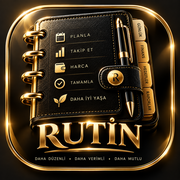
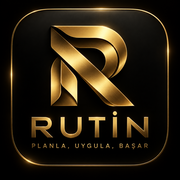
Add files via upload

diff --git a/styles.css b/styles.css
@@ -2125,3 +2125,113 @@ body{min-height:100dvh!important;}
 @media(max-width:390px){.financeDeck43177{gap:8px!important}.financeCard43177{padding:11px 9px;border-radius:19px}.financeCardName43177 b{font-size:13px}.financeCardDebt43177 strong{font-size:15px}.financeCardStats43177 b{font-size:7.7px}}
 @media(max-width:340px){.financeDeck43177{grid-template-columns:1fr!important}.financeCard43177{aspect-ratio:auto;min-height:350px}}
 .statementActions43177{display:grid;grid-template-columns:1fr 1fr;gap:7px}.statementActions43177 button{width:100%}.statementActions43177 .danger43177{grid-column:1/-1;border-color:#5d2929!important;background:#1c0d0d!important;color:#ff9292!important}.statementEdit43177{grid-template-columns:1fr!important}.statementEdit43177>span{display:block}
+
+/* V43.18.1 — OFFICIAL RUTİN BRAND + CLEAN CHAMFERED LOCK SCREEN */
+.rutinLogoImage{
+  width:var(--logoSize,30px)!important;
+  height:var(--logoSize,30px)!important;
+  min-width:var(--logoSize,30px)!important;
+  object-fit:cover!important;
+  border-radius:24%!important;
+  border:1px solid rgba(187,145,70,.48)!important;
+  box-shadow:none!important;
+  display:inline-block!important;
+}
+.brandTitle{gap:7px!important}
+.brandTitle>span:last-child{color:#d8bd7b!important}
+.headerAppLogoV32,.brandStripV31 img{
+  content:url('rutin-logo.png?v=v43.18.1')!important;
+  object-fit:cover!important;
+  border-color:rgba(184,142,67,.42)!important;
+  box-shadow:none!important;
+}
+.profileBadge .rutinLogoImage{vertical-align:middle;margin-right:6px}
+.sheetHead>b{display:flex;align-items:center;gap:7px}
+.sheetHead>b:before{
+  content:"";
+  width:18px;height:18px;flex:none;
+  background:url('rutin-mark.png?v=v43.18.1') center/cover no-repeat;
+  border-radius:5px;border:1px solid rgba(184,142,67,.38);
+}
+
+/* Real functional PIN screen based on selected mockup. */
+.premiumLock.lockV43181{
+  position:fixed!important;inset:0!important;z-index:9999!important;
+  padding:0!important;overflow:auto!important;text-align:left!important;
+  color:#eee!important;background:#030303!important;
+  font-family:system-ui,-apple-system,BlinkMacSystemFont,"Segoe UI",sans-serif!important;
+}
+.lockV43181 .lockAura,.lockV43181 .lockTop,.lockV43181>h1,.lockV43181 .lockSub,.lockV43181 .lockGreeting,.lockV43181 .cleanPinOk,.lockV43181 .lockVersion{display:none!important}
+.lockV43181Shell{
+  min-height:100svh;width:min(100%,480px);margin:0 auto;
+  display:grid;grid-template-columns:minmax(0,1fr) 29%;
+  background:linear-gradient(180deg,#080808 0%,#020202 100%);
+  border-left:1px solid rgba(183,140,66,.16);border-right:1px solid rgba(183,140,66,.16);
+}
+.lockV43181Main{position:relative;min-width:0;padding:calc(env(safe-area-inset-top,0px) + 22px) 14px calc(env(safe-area-inset-bottom,0px) + 18px);display:flex;flex-direction:column;align-items:center}
+.lockV43181Brand{align-self:flex-start;width:76px;height:76px;margin:0 0 3px 3px}
+.lockV43181Brand img{display:block;width:100%;height:100%;object-fit:cover;border-radius:18px;border:1px solid rgba(185,143,70,.28);box-shadow:none}
+.lockProfile43181{
+  width:126px!important;height:126px!important;margin:0 auto 7px!important;padding:0!important;
+  border:1px solid rgba(203,164,91,.72)!important;border-radius:0!important;box-shadow:none!important;
+  background:linear-gradient(145deg,#141414,#060606)!important;overflow:hidden!important;
+  clip-path:polygon(11% 0,89% 0,100% 11%,100% 89%,89% 100%,11% 100%,0 89%,0 11%);
+  display:grid!important;place-items:center!important;
+}
+.lockProfile43181 img{width:100%!important;height:100%!important;object-fit:cover!important;border-radius:0!important;clip-path:inherit}
+.lockAvatarMinimal{width:100%;height:100%;display:grid;place-items:center;position:relative}
+.lockAvatarMinimal i{position:absolute;top:25px;width:42px;height:42px;border-radius:50%;background:linear-gradient(145deg,#d4b06c,#8b672f);box-shadow:none}
+.lockAvatarMinimal b{position:absolute;bottom:22px;width:78px;height:48px;border-radius:42px 42px 9px 9px;background:linear-gradient(145deg,#caa45d,#745225);box-shadow:none}
+.lockProfileName43181{max-width:94%;overflow:hidden;text-overflow:ellipsis;white-space:nowrap;color:#d9c28e;font-size:9px;letter-spacing:1.5px;text-transform:uppercase;margin:1px 0 4px}
+.lockV43181 .cleanPinInstruction{margin:2px 0 8px!important;color:#d8bd7b!important;font-size:11px!important;font-weight:600!important;letter-spacing:1.8px!important;text-align:center!important}
+.lockPinDots43181{display:grid!important;grid-template-columns:repeat(4,34px)!important;gap:10px!important;margin:0 0 12px!important}
+.lockPinDots43181 i{
+  width:34px!important;height:30px!important;border-radius:0!important;
+  border:1px solid rgba(203,164,91,.72)!important;background:#080808!important;box-shadow:none!important;
+  clip-path:polygon(18% 0,82% 0,100% 18%,100% 82%,82% 100%,18% 100%,0 82%,0 18%);
+}
+.lockPinDots43181 i.filled{background:#b68e49!important;border-color:#d8b86e!important;box-shadow:none!important;position:relative}
+.lockPad43181{display:grid!important;grid-template-columns:repeat(3,minmax(58px,78px))!important;gap:8px!important;justify-content:center!important;width:100%!important;position:relative!important;z-index:20!important}
+.lockPad43181 .lockKey43181{
+  width:100%!important;height:70px!important;border-radius:0!important;
+  border:1px solid rgba(190,148,72,.68)!important;background:linear-gradient(145deg,#151515,#090909)!important;
+  color:#dbc18b!important;font-size:24px!important;font-weight:500!important;padding:0!important;box-shadow:none!important;
+  clip-path:polygon(12% 0,88% 0,100% 12%,100% 88%,88% 100%,12% 100%,0 88%,0 12%);
+  touch-action:manipulation!important;-webkit-tap-highlight-color:transparent!important;
+}
+.lockPad43181 .lockKey43181:active{background:#1f1a11!important;color:#f0d69c!important;transform:scale(.96)!important}
+.lockPad43181 .lockKeyUtility43181{font-size:26px!important;color:#bfa267!important}
+.lockForgot43181{margin:10px auto 0!important;border:0!important;background:transparent!important;color:#8e8270!important;font-size:7px!important;letter-spacing:1px!important}
+.lockHelp43181{margin:10px auto 0!important;color:#8f836e!important;font-size:7px!important;letter-spacing:1px!important}
+.lockV43181Tagline{margin-top:auto;padding-top:14px;color:#9f8b62;font-size:7px;letter-spacing:2.2px;text-align:center}
+.lockV43181Quote{
+  position:relative;min-width:0;border-left:1px solid rgba(182,140,66,.42);
+  background:linear-gradient(180deg,#060606 0%,#0d0b08 50%,#030303 100%);
+  display:grid;grid-template-rows:auto 1fr auto;overflow:hidden;padding:calc(env(safe-area-inset-top,0px) + 78px) 9px calc(env(safe-area-inset-bottom,0px) + 26px);
+}
+.lockQuoteTop43181{position:relative;z-index:2;color:#d8bd7b;font-family:Georgia,"Times New Roman",serif;font-size:20px;line-height:1.16;text-align:center;font-weight:400}
+.lockQuoteTop43181:after{content:"";display:block;width:34px;height:1px;background:#a98546;margin:13px auto 0}
+.lockMountain43181{min-height:290px;margin:24px -9px 10px;background:linear-gradient(180deg,transparent 0%,rgba(0,0,0,.12) 75%,#030303 100%),url('lock-mountain.jpg?v=v43.18.1') 50% 30%/cover no-repeat;filter:saturate(.72) brightness(.75);opacity:.9}
+.lockQuoteBottom43181{position:relative;z-index:2;color:#bca675;font-size:7px;letter-spacing:2.4px;line-height:2;text-align:center}
+.lockQuoteBottom43181:after{content:"";display:block;width:32px;height:1px;background:#91733c;margin:8px auto 0}
+
+@media(max-width:390px){
+ .lockV43181Shell{grid-template-columns:minmax(0,1fr) 27%}
+ .lockV43181Main{padding-left:10px;padding-right:10px}
+ .lockV43181Brand{width:66px;height:66px}
+ .lockProfile43181{width:112px!important;height:112px!important}
+ .lockPad43181{grid-template-columns:repeat(3,minmax(54px,72px))!important;gap:7px!important}
+ .lockPad43181 .lockKey43181{height:62px!important;font-size:22px!important}
+ .lockQuoteTop43181{font-size:17px}
+}
+@media(max-height:720px){
+ .lockV43181Main{padding-top:12px;padding-bottom:10px}
+ .lockV43181Brand{width:54px;height:54px}
+ .lockProfile43181{width:88px!important;height:88px!important;margin-bottom:4px!important}
+ .lockAvatarMinimal i{top:17px;width:30px;height:30px}.lockAvatarMinimal b{bottom:14px;width:56px;height:34px}
+ .lockV43181 .cleanPinInstruction{font-size:9px!important;margin-bottom:5px!important}
+ .lockPinDots43181{margin-bottom:7px!important}.lockPinDots43181 i{width:28px!important;height:25px!important}
+ .lockPad43181{grid-template-columns:repeat(3,58px)!important;gap:5px!important}
+ .lockPad43181 .lockKey43181{height:46px!important;font-size:19px!important}
+ .lockV43181Tagline{padding-top:7px}.lockV43181Quote{padding-top:58px}.lockMountain43181{min-height:210px;margin-top:12px}
+}

diff --git a/app.js b/app.js
@@ -131,9 +131,7 @@ function workSummary(items=monthItems(state.work)){
 }
 
 function rutinLogo(size=34){
-  return `<span class="rutinLogo" style="--logoSize:${size}px" aria-label="RUTİN">
-    <span class="rLogoR">R</span><span class="rLogoCheck">✓</span>
-  </span>`;
+  return `<img class="rutinLogoImage" src="rutin-mark.png?v=v43.18.1" style="--logoSize:${size}px" width="${size}" height="${size}" alt="RUTİN">`;
 }
 
 function header(title='RUTİN',back=false){
@@ -499,7 +497,7 @@ function initCleanPinMode(){
 function cleanPinInstruction(){
   if(cleanPin.mode==='create') return 'YENİ 4 HANELİ PINİNİ GİR';
   if(cleanPin.mode==='confirm') return 'PINİ TEKRAR GİR';
-  return '4 HANELİ PINİNİ GİR';
+  return 'ŞİFRENİZİ GİRİN';
 }
 
 function cleanPinScreen(){
@@ -507,42 +505,43 @@ function cleanPinScreen(){
 
   const name = state.profile?.name || 'RUTİN';
   const photo = state.profile?.photo || '';
+  const profileVisual = photo
+    ? `<img src="${photo}" alt="${esc(name)}">`
+    : `<div class="lockAvatarMinimal" aria-hidden="true"><i></i><b></b></div>`;
 
-  return `<div class="premiumLock cleanPinScreen">
-    <div class="lockAura"></div>
+  return `<div class="premiumLock cleanPinScreen lockV43181">
+    <div class="lockV43181Shell">
+      <main class="lockV43181Main">
+        <div class="lockV43181Brand"><img src="rutin-logo.png?v=v43.18.1" alt="RUTİN"></div>
 
-    <div class="lockTop">
-      <div class="lockSideQuote">DİSİPLİN<br>BUGÜNÜ<br>YARINA TAŞIR</div>
-      <div class="lockBrand"><img class="lockLogoV31" src="icon-180.png?v=v42" alt="RUTİN"><strong>RUTİN</strong><small>DAHA İYİ BİR SEN</small></div>
-      <div class="lockSideQuote right">PLANLA<br>ÇALIŞ<br>BAŞAR</div>
+        <div class="lockProfile lockProfile43181">${profileVisual}</div>
+        <div class="lockProfileName43181">${esc(name)}</div>
+        <div class="cleanPinInstruction">${cleanPinInstruction()}</div>
+
+        <div class="pinDots cleanPinDots lockPinDots43181">
+          ${[0,1,2,3].map((_,i)=>`<i class="${cleanPin.buffer.length>i?'filled':''}"></i>`).join('')}
+        </div>
+
+        <div class="pinPad cleanPinPad lockPad43181">
+          ${[1,2,3,4,5,6,7,8,9].map(n=>`<button type="button" class="cleanPinBtn lockKey43181" data-pin="${n}">${n}</button>`).join('')}
+          <button type="button" class="cleanPinBtn lockKey43181 lockKeyUtility43181" data-pin="clear" aria-label="Temizle">×</button>
+          <button type="button" class="cleanPinBtn lockKey43181" data-pin="0">0</button>
+          <button type="button" class="cleanPinBtn lockKey43181 lockKeyUtility43181" data-pin="del" aria-label="Sil">⌫</button>
+        </div>
+
+        ${cleanPin.mode==='login'
+          ? `<button type="button" class="forgotPinBtn cleanForgotBtn lockForgot43181">PAROLAMI UNUTTUM</button>`
+          : `<div class="cleanPinHelp lockHelp43181">${cleanPin.mode==='confirm'?'PINİ TEKRAR GİR':'4 HANELİ PIN OLUŞTUR'}</div>`
+        }
+        <div class="lockV43181Tagline">PLANLA, UYGULA, BAŞAR</div>
+      </main>
+
+      <aside class="lockV43181Quote" aria-label="Motivasyon">
+        <div class="lockQuoteTop43181">HEDEFİNE<br>ODAKLAN</div>
+        <div class="lockMountain43181"></div>
+        <div class="lockQuoteBottom43181">DAHA İYİ<br>BİR SEN<br>MÜMKÜN</div>
+      </aside>
     </div>
-
-    <div class="lockProfile">${photo?`<img src="${photo}" alt="">`:`<div class="lockAvatar">${name.slice(0,1).toUpperCase()}</div>`}</div>
-    <h1>${name}</h1>
-    <div class="lockSub">RUTİN SENİNLE DAHA GÜÇLÜ</div>
-
-    <div class="lockGreeting">${typeof greetingByTime==='function'?greetingByTime():'HOŞ GELDİN'}!</div>
-    <div class="cleanPinInstruction">${cleanPinInstruction()}</div>
-
-    <div class="pinDots cleanPinDots">
-      ${[0,1,2,3].map((_,i)=>`<i class="${cleanPin.buffer.length>i?'filled':''}"></i>`).join('')}
-    </div>
-
-    <div class="pinPad cleanPinPad">
-      ${[1,2,3,4,5,6,7,8,9].map(n=>`<button type="button" class="cleanPinBtn" data-pin="${n}">${n}</button>`).join('')}
-      <button type="button" class="cleanPinBtn pinGhost" data-pin="clear">C</button>
-      <button type="button" class="cleanPinBtn" data-pin="0">0</button>
-      <button type="button" class="cleanPinBtn" data-pin="del">⌫</button>
-    </div>
-
-    <button type="button" class="cleanPinOk">✓ TAMAM</button>
-
-    ${cleanPin.mode==='login'
-      ? `<button type="button" class="forgotPinBtn cleanForgotBtn">PAROLAMI UNUTTUM</button>`
-      : `<div class="cleanPinHelp">4 HANELİ PINİNİ GİRİP TAMAM'A BAS.</div>`
-    }
-
-    <div class="lockVersion">CLEAN V2</div>
   </div>`;
 }
 
@@ -573,6 +572,9 @@ function cleanPinKey(v){
 
   cleanPin.buffer += val;
   updateCleanPinUI();
+  if(cleanPin.buffer.length===4){
+    setTimeout(()=>confirmCleanPin(),90);
+  }
 }
 
 function confirmCleanPin(){

diff --git a/index.html b/index.html
@@ -11,38 +11,38 @@
 <meta name="apple-mobile-web-app-capable" content="yes">
 <meta name="apple-mobile-web-app-status-bar-style" content="black-translucent">
 <meta name="apple-mobile-web-app-title" content="RUTİN">
-<title>RUTİN V43.18.0 GLOBAL SAFEAREA</title>
+<title>RUTİN V43.18.1 BRAND LOCKSCREEN</title>
 <link rel="manifest" href="manifest.json">
-<link rel="stylesheet" href="styles.css?v=v43.18.0">
+<link rel="stylesheet" href="styles.css?v=v43.18.1">
 <link rel="icon" href="icon-180.png" type="image/png">
 <link rel="apple-touch-icon" href="icon-180.png">
 </head>
 <body>
 <div id="app"></div>
-<script src="app.js?v=v43.18.0"></script>
-<script src="legacy.js?v=v43.18.0"></script>
-<script src="calendar.js?v=v43.18.0"></script>
-<script src="records.js?v=v43.18.0"></script>
-<script src="work.js?v=v43.18.0"></script>
-<script src="finance.js?v=v43.18.0"></script>
-<script src="ui.js?v=v43.18.0"></script>
-<script src="accounting.js?v=v43.18.0"></script>
-<script src="v43165_cards_allowance.js?v=v43.18.0"></script>
-<script src="v431651_integrity_fix.js?v=v43.18.0"></script>
-<script src="v43166_calendar_categories.js?v=v43.18.0"></script>
-<script src="v43167_report_quickfix.js?v=v43.18.0"></script>
-<script src="v43168_navigation_interaction.js?v=v43.18.0"></script>
-<script src="v43169_report_road_fix.js?v=v43.18.0"></script>
-<script src="v431691_stable_fix.js?v=v43.18.0"></script>
-<script src="v4317_standard_migration.js?v=v43.18.0"></script>
-<script src="v43171_quick_calendar_fix.js?v=v43.18.0"></script>
-<script src="v43172_real_quick_calendar_fix.js?v=v43.18.0"></script>
-<script src="v43173_calendar_restore.js?v=v43.18.0"></script>
-<script src="v43174_integrity_reports.js?v=v43.18.0"></script>
-<script src="v43175_finance_edit_reminders.js?v=v43.18.0"></script>
-<script src="v43176_finance_details_reports.js?v=v43.18.0"></script>
-<script src="v43177_card_statement_design.js?v=v43.18.0"></script>
-<script src="v43178_flex_finance_standard.js?v=v43.18.0"></script>
-<script src="v43179_final_integrity.js?v=v43.18.0"></script>
+<script src="app.js?v=v43.18.1"></script>
+<script src="legacy.js?v=v43.18.1"></script>
+<script src="calendar.js?v=v43.18.1"></script>
+<script src="records.js?v=v43.18.1"></script>
+<script src="work.js?v=v43.18.1"></script>
+<script src="finance.js?v=v43.18.1"></script>
+<script src="ui.js?v=v43.18.1"></script>
+<script src="accounting.js?v=v43.18.1"></script>
+<script src="v43165_cards_allowance.js?v=v43.18.1"></script>
+<script src="v431651_integrity_fix.js?v=v43.18.1"></script>
+<script src="v43166_calendar_categories.js?v=v43.18.1"></script>
+<script src="v43167_report_quickfix.js?v=v43.18.1"></script>
+<script src="v43168_navigation_interaction.js?v=v43.18.1"></script>
+<script src="v43169_report_road_fix.js?v=v43.18.1"></script>
+<script src="v431691_stable_fix.js?v=v43.18.1"></script>
+<script src="v4317_standard_migration.js?v=v43.18.1"></script>
+<script src="v43171_quick_calendar_fix.js?v=v43.18.1"></script>
+<script src="v43172_real_quick_calendar_fix.js?v=v43.18.1"></script>
+<script src="v43173_calendar_restore.js?v=v43.18.1"></script>
+<script src="v43174_integrity_reports.js?v=v43.18.1"></script>
+<script src="v43175_finance_edit_reminders.js?v=v43.18.1"></script>
+<script src="v43176_finance_details_reports.js?v=v43.18.1"></script>
+<script src="v43177_card_statement_design.js?v=v43.18.1"></script>
+<script src="v43178_flex_finance_standard.js?v=v43.18.1"></script>
+<script src="v43179_final_integrity.js?v=v43.18.1"></script>
 </body>
 </html>

diff --git a/sw.js b/sw.js
@@ -1,5 +1,5 @@
-const CACHE='rutin-v43.18.0-clean-stable';
-const CORE=['./','./index.html','./styles.css','./app.js','./legacy.js','./calendar.js','./records.js','./work.js','./finance.js','./ui.js','./accounting.js','./v43165_cards_allowance.js','./v431651_integrity_fix.js','./v43166_calendar_categories.js','./v43167_report_quickfix.js','./v43168_navigation_interaction.js','./v43169_report_road_fix.js','./v431691_stable_fix.js','./v4317_standard_migration.js','./v43171_quick_calendar_fix.js','./v43172_real_quick_calendar_fix.js','./v43173_calendar_restore.js','./v43174_integrity_reports.js','./v43175_finance_edit_reminders.js','./v43176_finance_details_reports.js','./manifest.json','./icon-180.png','./icon-512.png',
+const CACHE='rutin-v43.18.1-brand-lockscreen';
+const CORE=['./','./index.html','./styles.css','./app.js','./legacy.js','./calendar.js','./records.js','./work.js','./finance.js','./ui.js','./accounting.js','./v43165_cards_allowance.js','./v431651_integrity_fix.js','./v43166_calendar_categories.js','./v43167_report_quickfix.js','./v43168_navigation_interaction.js','./v43169_report_road_fix.js','./v431691_stable_fix.js','./v4317_standard_migration.js','./v43171_quick_calendar_fix.js','./v43172_real_quick_calendar_fix.js','./v43173_calendar_restore.js','./v43174_integrity_reports.js','./v43175_finance_edit_reminders.js','./v43176_finance_details_reports.js','./manifest.json','./icon-180.png','./icon-512.png','./rutin-logo.png','./rutin-mark.png','./lock-mountain.jpg',
   'v43177_card_statement_design.js',
   "v43178_flex_finance_standard.js",
   "v43179_final_integrity.js"
